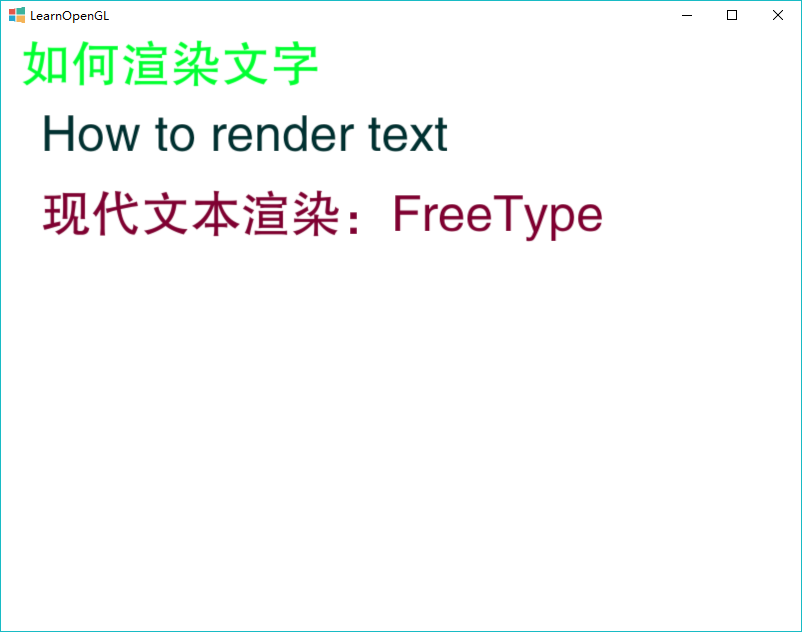
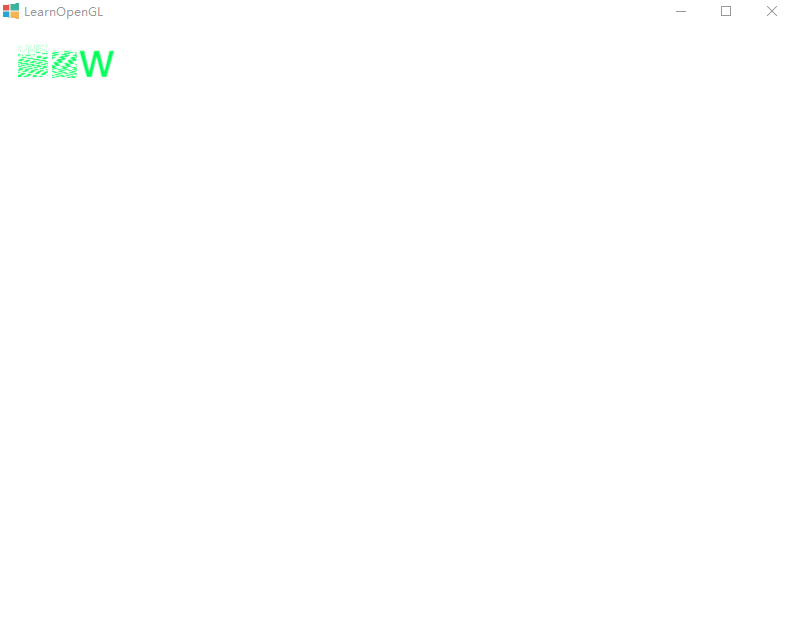
Use sub texture

diff --git a/main.cpp b/main.cpp
@@ -1,6 +1,7 @@
 // Copyright (c) 2018 BaiQiang. All rights reserved.
 
 #include <iostream>
+#include <algorithm>
 #include <glad/glad.h>
 #include <GLFW/glfw3.h>
 #include "screenshot.h"
@@ -37,23 +38,38 @@ static void processInput(GLFWwindow *window) {
 
 typedef struct {
     unsigned char *buffer;
-    unsigned int width;
-    unsigned int height;
-    float bearing_x;
-    float bearing_y;
+    int width;
+    int height;
+    float bitmap_left;
+    float bitmap_top;
+    float ax;
+    float ay;
+    float tx;
+    float ty;
+    float ox;
+    float oy;
 } Glyph;
 
+struct Point {
+    GLfloat x;
+    GLfloat y;
+    GLfloat s;
+    GLfloat t;
+};
+
 typedef struct {
-    GLuint textureId;
-    GLfloat *data;
-} Character;
+    GLuint texture1;
+    int w;
+    int h;
+    Point *coords;
+    int count;
+} Atlas;
 
 typedef struct {
     std::string data;
     std::string language;
     hb_script_t script;
     hb_direction_t direction;
-
 } HBText;
 
 static void force_ucs2_charmap(FT_Face ftf) {
@@ -84,17 +100,17 @@ static Glyph *getGlyph(FT_Face *face, uint32_t glyphIndex) {
     g->buffer = bitmap.buffer;
     g->width = bitmap.width;
     g->height = bitmap.rows;
-    g->bearing_x = slot->bitmap_left;
-    g->bearing_y = slot->bitmap_top;
-
+    g->bitmap_left = slot->bitmap_left;
+    g->bitmap_top = slot->bitmap_top;
     return g;
 }
 
 static FT_Face face;
 static GLuint program;
 static hb_font_t *hb_font;
-static GLuint VAO, VBO, IBO;
-static constexpr int V_COUNT = 16;
+static GLuint VAO, VBO;
+static const int FONT_SIZE = 50;
+static const int MAX_WIDTH = 1024;
 
 hb_buffer_t *initHB() {
 
@@ -108,17 +124,16 @@ hb_buffer_t *initHB() {
         exit(1);
     }
     force_ucs2_charmap(face);
-    FT_Set_Char_Size(face, 0, 50 * 64, 72, 72);
+    FT_Set_Char_Size(face, 0, FONT_SIZE * 64, 72, 0);
 
-    hb_font = hb_ft_font_create(face, NULL);
+    hb_font = hb_ft_font_create(face, nullptr);
     hb_buffer_t *buffer = hb_buffer_create();
     hb_buffer_allocation_successful(buffer);
     return buffer;
 };
 
-std::vector<Character *> renderText(HBText text, hb_buffer_t *buffer, float x = 0, float y = 0) {
-    std::vector<Character *> cs;
-
+Atlas *renderText(HBText text, hb_buffer_t *buffer, float x = 0, float y = 0) {
+    auto atlas = new Atlas;
     hb_buffer_reset(buffer);
     hb_buffer_set_direction(buffer, text.direction);
     hb_buffer_set_script(buffer, text.script);
@@ -127,74 +142,114 @@ std::vector<Character *> renderText(HBText text, hb_buffer_t *buffer, float x = 
 
     hb_buffer_add_utf8(buffer, text.data.c_str(), length, 0, length);
 
-    hb_shape(hb_font, buffer, NULL, 0);
+    hb_shape(hb_font, buffer, nullptr, 0);
 
     unsigned int glyphCount;
     hb_glyph_info_t *infos = hb_buffer_get_glyph_infos(buffer, &glyphCount);
     hb_glyph_position_t *positions = hb_buffer_get_glyph_positions(buffer, &glyphCount);
+    auto glyphs = new Glyph *[glyphCount];
+
+    int roww = 0;
+    int rowh = 0;
+    int tw = 0;
+    int th = 0;
 
     for (unsigned int i = 0; i < glyphCount; ++i) {
         hb_glyph_info_t info = infos[i];
         hb_glyph_position_t pos = positions[i];
 
-//        static float HBFixedToFloat(hb_position_t v) {
-//            return scalbnf(v, -8);
-//        }
-//        printf("DoLayout %u, %f; %f; %d, %d \n", info.codepoint,
-//               HBFixedToFloat(positions[i].x_advance), HBFixedToFloat(positions[i].y_advance),
-//               positions[i].x_offset,
-//               positions[i].y_offset);
-
         Glyph *glyph = getGlyph(&face, info.codepoint);
+        glyphs[i] = glyph;
+        glyph->ax = (float) pos.x_advance / 64;
+        glyph->ay = (float) pos.y_advance / 64;
+        glyph->ox = (float) pos.x_offset / 64;
+        glyph->oy = (float) pos.y_offset / 64;
+        if (roww + glyph->width + 1 >= MAX_WIDTH) {
+            tw = std::max(tw, roww);
+            th += rowh;
+            roww = 0;
+            rowh = 0;
+        }
+        roww += glyph->width + 1;
+        rowh = std::max(rowh, glyph->height);
+    }
+    tw = std::max(tw, roww);
+    th += rowh;
 
-        int tw = pow(2, ceil(log(glyph->width) / log(2)));
-        int th = pow(2, ceil(log(glyph->height) / log(2)));
+    atlas->w = tw;
+    atlas->h = th;
 
-        auto data = new unsigned char[tw * th]();
-        for (unsigned int j = 0; j < glyph->height; ++j) {
-            memcpy(data + j * tw, glyph->buffer + j * glyph->width, glyph->width);
+    glActiveTexture(GL_TEXTURE0);
+    glGenTextures(1, &atlas->texture1);
+    glBindTexture(GL_TEXTURE_2D, atlas->texture1);
+    glTexImage2D(GL_TEXTURE_2D, 0, GL_RED, tw, th, 0, GL_RED, GL_UNSIGNED_BYTE, nullptr);
+    glPixelStorei(GL_UNPACK_ALIGNMENT, 1);
+    /* Clamping to edges is important to prevent artifacts when scaling */
+    glTexParameteri(GL_TEXTURE_2D, GL_TEXTURE_WRAP_S, GL_CLAMP_TO_EDGE);
+    glTexParameteri(GL_TEXTURE_2D, GL_TEXTURE_WRAP_T, GL_CLAMP_TO_EDGE);
+    /* Linear filtering usually looks best for text */
+    glTexParameteri(GL_TEXTURE_2D, GL_TEXTURE_MIN_FILTER, GL_LINEAR);
+    glTexParameteri(GL_TEXTURE_2D, GL_TEXTURE_MAG_FILTER, GL_LINEAR);
+
+    int ox = 0;
+    int oy = 0;
+    rowh = 0;
+    int c = 0;
+    atlas->coords = new Point[6 * glyphCount];
+    for (unsigned int i = 0; i < glyphCount; ++i) {
+        Glyph *g = glyphs[i];
+        if (ox + g->width + 1 >= MAX_WIDTH) {
+            oy += rowh;
+            rowh = 0;
+            ox = 0;
         }
 
-        float s0 = 0.0;
-        float t0 = 0.0;
-        float s1 = (float) glyph->width / tw;
-        float t1 = (float) glyph->height / th;
-        float xa = (float) pos.x_advance / 64;
-        float ya = (float) pos.y_advance / 64;
-        float xo = (float) pos.x_offset / 64;
-        float yo = (float) pos.y_offset / 64;
-        float x0 = x + xo + glyph->bearing_x;
-        float y0 = floor(y + yo + glyph->bearing_y);
-        float x1 = x0 + glyph->width;
-        float y1 = floor(y0 - glyph->height);
-        // printf("vertices: %f,%f,%f,%f,%f,%f,%f,%f \n", x0, y0, s0, t0, x1, y1, s1, t1);
+        glTexSubImage2D(GL_TEXTURE_2D, 0, ox, oy, g->width, g->height, GL_RED, GL_UNSIGNED_BYTE, g->buffer);
+        g->tx = ox / (float) tw;
+        g->ty = oy / (float) th;
+        rowh = std::max(rowh, g->height);
+        ox += g->width + 1;
 
-        GLfloat vertices[V_COUNT] = {
-                x0, y0, s0, t0,
-                x0, y1, s0, t1,
-                x1, y1, s1, t1,
+        float s0 = g->tx;
+        float t0 = g->ty;
+        float s1 = g->tx + float(g->width) / atlas->w;
+        float t1 = g->ty + float(g->height) / atlas->h;
+        float x0 = x + g->bitmap_left;
+        float y0 = floor(y + g->bitmap_top);
+        float x1 = x0 + g->width;
+        float y1 = floor(y0 - g->height);
+
+        printf("vertices: %f,%f,%f,%f,%f,%f,%f,%f,%d \n", x0, y0, x1, y1, s0, t0, s1, t1, g->width);
+
+        x += g->ax;
+        y += g->ay;
+
+        atlas->coords[c++] = {
+                x0, y0, s0, t0
+        };
+        atlas->coords[c++] = {
+                x0, y1, s0, t1
+        };
+        atlas->coords[c++] = {
+                x1, y1, s1, t1
+        };
+        atlas->coords[c++] = {
+                x0, y0, s0, t0
+        };
+        atlas->coords[c++] = {
+                x1, y1, s1, t1
+        };
+        atlas->coords[c++] = {
                 x1, y0, s1, t0
         };
-
-        Character *c = new Character();
-        c->data = new GLfloat[V_COUNT];
-        memcpy(c->data, vertices, sizeof(vertices));
-        glGenTextures(1, &c->textureId);
-        glBindTexture(GL_TEXTURE_2D, c->textureId);
-        glTexParameteri(GL_TEXTURE_2D, GL_TEXTURE_WRAP_S, GL_REPEAT);
-        glTexParameteri(GL_TEXTURE_2D, GL_TEXTURE_WRAP_T, GL_REPEAT);
-        glTexParameteri(GL_TEXTURE_2D, GL_TEXTURE_MIN_FILTER, GL_LINEAR);
-        glTexParameteri(GL_TEXTURE_2D, GL_TEXTURE_MAG_FILTER, GL_LINEAR);
-        glTexImage2D(GL_TEXTURE_2D, 0, GL_RED, tw, th, 0, GL_RED, GL_UNSIGNED_BYTE, data);
-        glGenerateMipmap(GL_TEXTURE_2D);
-        glBindTexture(GL_TEXTURE_2D, 0);
-        cs.push_back(c);
-
-        x += xa;
-        y += ya;
-        delete glyph;
     }
-    return cs;
+    atlas->count = c;
+
+    printf("atlas: %d, %d, %d, %d \n", atlas->w, atlas->h, atlas->count, c);
+
+    glBindTexture(GL_TEXTURE_2D, 0);
+    delete[] glyphs;
+    return atlas;
 }
 
 GLFWwindow *initWindow() {
@@ -235,6 +290,7 @@ void initGL() {
     glEnable(GL_BLEND);
     glBlendFunc(GL_SRC_ALPHA, GL_ONE_MINUS_SRC_ALPHA);
     // glPolygonMode(GL_FRONT_AND_BACK, GL_LINE);
+
     glm::mat4 projection = glm::ortho(0.0f, static_cast<GLfloat>(WINDOW_WIDTH), 0.0f,
                                       static_cast<GLfloat>(WINDOW_HEIGHT));
 
@@ -243,44 +299,23 @@ void initGL() {
     glUseProgram(program);
     glUniformMatrix4fv(glGetUniformLocation(program, "projection"), 1, GL_FALSE, glm::value_ptr(projection));
 
-    GLuint indices[] = {
-            0, 1, 2,
-            0, 2, 3
-    };
-
     glGenVertexArrays(1, &VAO);
     glBindVertexArray(VAO);
     glGenBuffers(1, &VBO);
-    glBindBuffer(GL_ARRAY_BUFFER, VBO);
-    glBufferData(GL_ARRAY_BUFFER, sizeof(GLfloat) * V_COUNT, NULL, GL_DYNAMIC_DRAW);
-    glGenBuffers(1, &IBO);
-    glBindBuffer(GL_ELEMENT_ARRAY_BUFFER, IBO);
-    glBufferData(GL_ELEMENT_ARRAY_BUFFER, sizeof(indices), indices, GL_DYNAMIC_DRAW);
-    glEnableVertexAttribArray(0);
-    glVertexAttribPointer(0, 4, GL_FLOAT, GL_FALSE, 4 * sizeof(GLfloat), 0);
-    glBindBuffer(GL_ARRAY_BUFFER, 0);
-    glBindBuffer(GL_ELEMENT_ARRAY_BUFFER, 0);
     glBindVertexArray(0);
-
 }
 
-void drawText(std::vector<Character *> cs) {
-    for (auto c: cs) {
-        glBindTexture(GL_TEXTURE_2D, c->textureId);
-        glBindBuffer(GL_ARRAY_BUFFER, VBO);
-        glBufferSubData(GL_ARRAY_BUFFER, 0, sizeof(GLfloat) * V_COUNT, c->data);
-        glDrawElements(GL_TRIANGLES, 6, GL_UNSIGNED_INT, 0);
-        glBindBuffer(GL_ARRAY_BUFFER, 0);
-        glBindTexture(GL_TEXTURE_2D, 0);
-    }
-}
-
-void destroyCharacters(std::vector<Character *> cs) {
-    for (auto c: cs) {
-        glDeleteTextures(1, &c->textureId);
-        delete c->data;
-        delete c;
-    }
+void drawText(Atlas *atlas) {
+    glBindTexture(GL_TEXTURE_2D, atlas->texture1);
+    glBindVertexArray(VAO);
+    glEnableVertexAttribArray(0);
+    glBindBuffer(GL_ARRAY_BUFFER, VBO);
+    glVertexAttribPointer(0, 4, GL_FLOAT, GL_FALSE, 4 * sizeof(GLfloat), nullptr);
+    glBufferData(GL_ARRAY_BUFFER, atlas->count * 4 * sizeof(GLfloat), atlas->coords, GL_STATIC_DRAW);
+    glDrawArrays(GL_TRIANGLES, 0, atlas->count);
+    glBindBuffer(GL_ARRAY_BUFFER, 0);
+    glBindTexture(GL_TEXTURE_2D, 0);
+    glBindVertexArray(0);
 }
 
 int main() {
@@ -288,9 +323,9 @@ int main() {
     initGL();
     hb_buffer_t *buffer = initHB();
     HBText text = {
-            "如何渲染文字",
-            "zh",
-            HB_SCRIPT_HAN,
+            "How",
+            "en",
+            HB_SCRIPT_LATIN,
             HB_DIRECTION_LTR
     };
 
@@ -309,8 +344,6 @@ int main() {
     };
 
     auto cs1 = renderText(text, buffer, 20, WINDOW_HEIGHT - 50);
-    auto cs2 = renderText(text2, buffer, 40, WINDOW_HEIGHT - 120);
-    auto cs3 = renderText(text3, buffer, 40, WINDOW_HEIGHT - 200);
 
     while (!glfwWindowShouldClose(window)) {
         processInput(window);
@@ -320,27 +353,21 @@ int main() {
         glUseProgram(program);
         glActiveTexture(GL_TEXTURE0);
         glBindVertexArray(VAO);
-        glBindBuffer(GL_ELEMENT_ARRAY_BUFFER, IBO);
 
         glUniform3f(glGetUniformLocation(program, "textColor"), 0, 1.0, value);
         drawText(cs1);
 
         glUniform3f(glGetUniformLocation(program, "textColor"), 0, value, value);
-        drawText(cs2);
 
         glUniform3f(glGetUniformLocation(program, "textColor"), 0.5, 0, value);
-        drawText(cs3);
 
         glBindVertexArray(0);
-        glBindBuffer(GL_ELEMENT_ARRAY_BUFFER, 0);
         glUseProgram(0);
         glfwSwapBuffers(window);
         glfwPollEvents();
     }
 
     glDeleteProgram(program);
-    destroyCharacters(cs1);
-    destroyCharacters(cs2);
     FT_Done_Face(face);
     hb_buffer_destroy(buffer);
     hb_font_destroy(hb_font);
